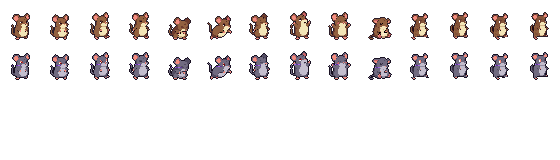
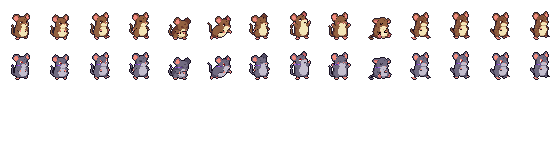
보리 걷기 바탕을 셋째 칸으로 — 첫 칸은 앞발이 한 줄뿐이라 들면 외발처럼 보였다(0241)
Claude-Session: https://claude.ai/code/session_01VNXEyeHwdhsn4oiHYXtNpM

diff --git a/site/index.html b/site/index.html
@@ -401,6 +401,6 @@
     <p>대화 초상화·컷씬 일러스트·타이틀 바탕은 Google Gemini 이미지 모델(나노바나나)로 그린 원본을 도트로 옮긴 것이다(SynthID 워터마크 포함). 캐릭터·적·소품·마을 물건 스프라이트도 같은 방식으로 받은 원본을 게임 칸으로 옮긴 것이다. 싸움 칸의 클립은 받는 피해만 끈 시험 빌드를 가짜 시계로 한 칸씩 찍은 것이다(소리 없음). 환경 그림: <a href="https://danieldiggle.itch.io/sunnyside">Sunnyside World</a> by danieldiggle. 음악: Cleyton Kauffman · fluffclipse · Kistol · Aureolus_Omicron · Yoiyami · KarateStudios · Juhani Junkala · mutantleg · Umplix · RandomMind · Écrivain, 효과음·환경음: Kenney · Juhani Junkala · artisticdude · Bobjt · themightyglider · qubodup · syncopika · cinameng(모두 CC0). 글꼴: <a href="https://github.com/quiple/galmuri">Galmuri</a> · Ark Pixel · 俐方體11號(SIL OFL 1.1). <a href="https://github.com/AimenJoe/nail-under-the-roots/blob/main/assets/LICENSES.md">출처 전체</a></p>
   </div>
 </footer>
-<script src="site.js?v=faf527bf" defer></script>
+<script src="site.js?v=70709d6e" defer></script>
 </body>
 </html>

diff --git a/site/en/index.html b/site/en/index.html
@@ -400,6 +400,6 @@
     <p>Dialogue portraits, story illustrations and the title background were drawn with Google's Gemini image model (Nano Banana) and redrawn as pixel art (they carry a SynthID watermark). Character, enemy, prop and village sprites were made the same way and fitted into game cells. The clip in the fight section was captured frame by frame on a fake clock from a test build with incoming damage turned off (no sound). Environment art: <a href="https://danieldiggle.itch.io/sunnyside">Sunnyside World</a> by danieldiggle. Music: Cleyton Kauffman · fluffclipse · Kistol · Aureolus_Omicron · Yoiyami · KarateStudios · Juhani Junkala · mutantleg · Umplix · RandomMind · Écrivain; sound effects and ambience: Kenney · Juhani Junkala · artisticdude · Bobjt · themightyglider · qubodup · syncopika · cinameng (all CC0). Fonts: <a href="https://github.com/quiple/galmuri">Galmuri</a> · Ark Pixel · Cubic 11 (SIL OFL 1.1). <a href="https://github.com/AimenJoe/nail-under-the-roots/blob/main/assets/LICENSES.md">All sources</a></p>
   </div>
 </footer>
-<script src="../site.js?v=faf527bf" defer></script>
+<script src="../site.js?v=70709d6e" defer></script>
 </body>
 </html>

diff --git a/site/site.js b/site/site.js
@@ -113,7 +113,7 @@
   // 첫 화면 아래 걷는 띠(0228 덧붙임): 들를 때마다 이웃 몇이 무작위로 나와 건너가고, 하나가 나가면 다른 이가 들어온다.
   // 칸 크기(c)의 2배로 그린다. f = 한 칸 시간, d = 건너는 시간(도토는 달리고 모모는 깡충, 보리·수수는 느릿느릿).
   const box = document.querySelector("[data-parade]");
-  const SPRITE_V = "23c92829";   // make_images.py가 sp_*.png 판의 해시를 적는다(캐시 깨기)
+  const SPRITE_V = "84d5d7a3";   // make_images.py가 sp_*.png 판의 해시를 적는다(캐시 깨기)
   if (!box || matchMedia("(prefers-reduced-motion: reduce)").matches) return;
   const CAST = [
     { k: "nail", n: 4, c: 28, f: 0.16, d: 26 },

diff --git a/tools/art/bori_ai.py b/tools/art/bori_ai.py
@@ -113,8 +113,9 @@ def build():
     spr = convert(SPEC)
     cells = {k: seat(spr[k], CELL, FOOT) for k in NAMES}
     cells.update(walk_ai.cells("bori", SPEC.sources[0], CELL, FOOT))
-    # 걷기는 첫 칸 하나에서 발만 딛게(0241): 따로 받은 걷기 넷(`bori_walk_v1.png`)은 넷째 칸만 키·몸이 커서 걸음마다 몸이 튀었다.
-    steps = step_cycle(cells[walk_ai.NAMES[0]], FOOT - 1, reach=2)
+    # 걷기는 한 칸에서 발만 딛게(0241): 따로 받은 걷기 넷(`bori_walk_v1.png`)은 넷째 칸만 키·몸이 커서 걸음마다 몸이 튀었다.
+    # 바탕은 셋째 칸 — 첫 칸은 앞발이 한 줄뿐이라 들면 몸에 묻혀 외발로 걷는 것처럼 보였다(사장 "보리 걷는 게 더 어색").
+    steps = step_cycle(cells[walk_ai.NAMES[2]], FOOT - 1, reach=2)
     cells.update(zip(walk_ai.NAMES, steps))
     return sheet4([(cells[k], threads(taint(cells[k]))) for k in ORDER])
 
